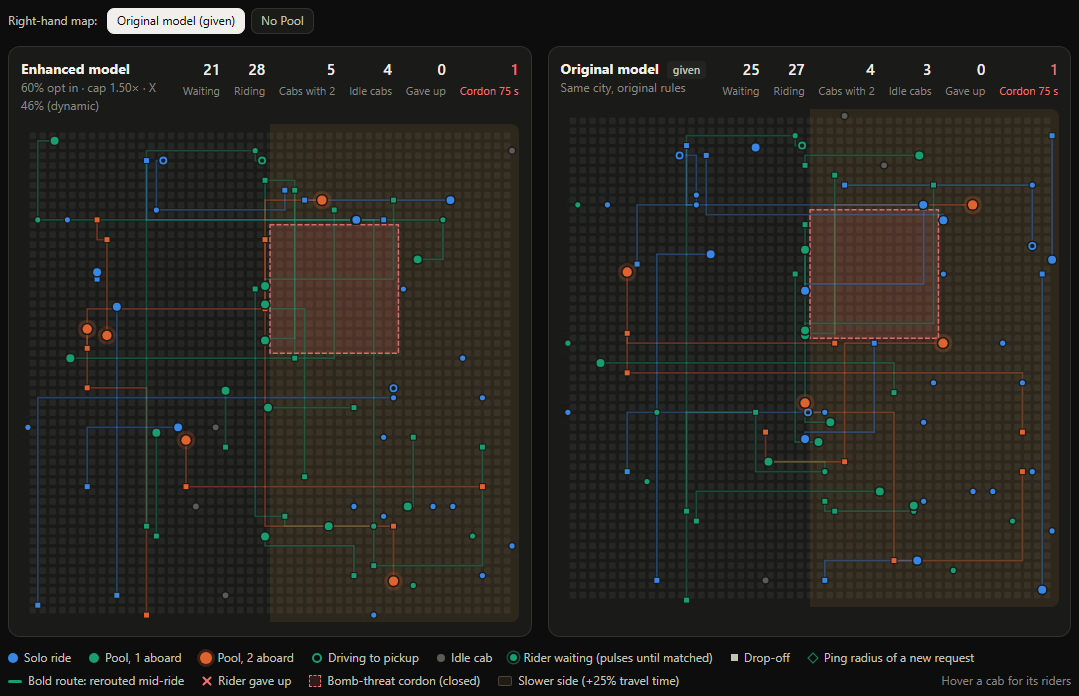
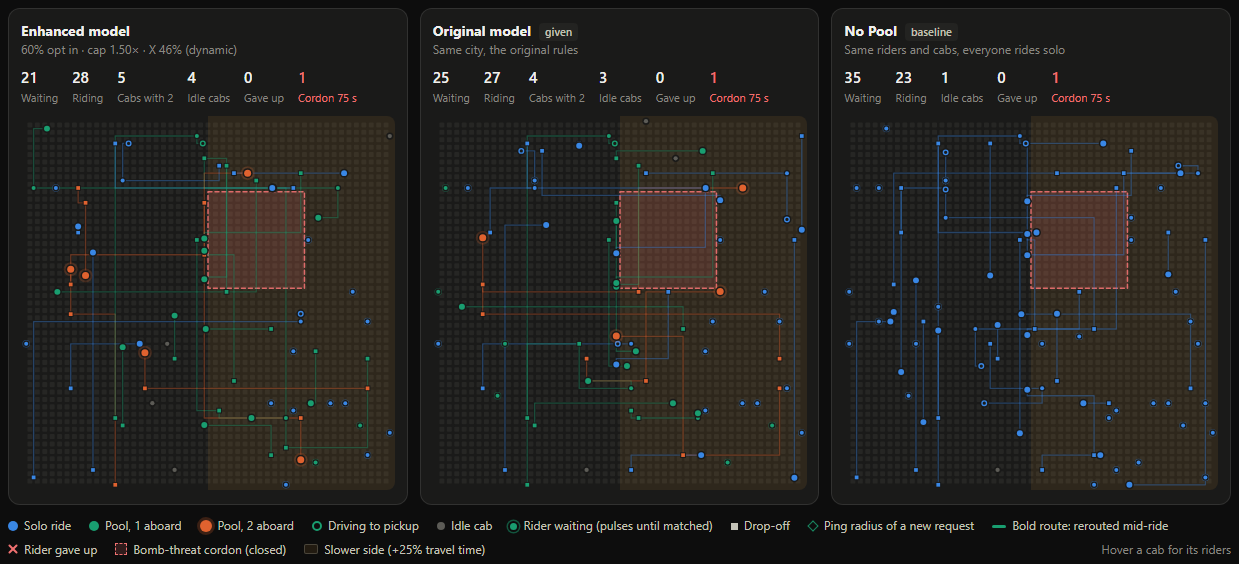
Three maps side by side (enhanced, original, No Pool); README in first person with screenshots

diff --git a/js/app.js b/js/app.js
@@ -75,8 +75,7 @@
     defaults: $('btn-defaults'), speed: $('speed'), status: $('status'), clock: $('clock'),
     clockTotal: $('clock-total'), progress: $('progress'),
     statsPool: $('stats-pool'), statsBase: $('stats-base'), subPool: $('sub-pool'),
-    titlePool: $('title-pool'), titleBase: $('title-base'), subBase: $('sub-base'),
-    compareSwitch: $('compare-switch'), legendSlow: $('legend-slow'),
+    statsOrig: $('stats-orig'), maps: $('maps'), legendSlow: $('legend-slow'),
     live: $('live'), liveEnh: $('live-enh'), report: $('report'), reportPanel: $('report-panel'), tooltip: $('tooltip'),
   };
 
@@ -91,12 +90,12 @@
     effSpeed: null,
     summary: null,
     hover: null, // { view, cab }
-    rightView: 'orig', // right map: 'orig' (original prototype) or 'base' (No Pool)
   };
 
   var views = {
-    pool: new window.MapView($('map-pool')),
-    base: new window.MapView($('map-base')),
+    pool: new window.MapView($('map-pool')),  // enhanced model
+    orig: new window.MapView($('map-orig')),  // original model, same city
+    base: new window.MapView($('map-base')),  // No Pool
   };
 
   // ------------------------------------------------------------ controls
@@ -230,39 +229,15 @@
     state.summary = null;
     state.hover = null;
     views.pool.setWorld(state.sim.pool);
-    views.base.setWorld(rightWorld());
-    syncCompareView();
+    views.orig.setWorld(state.orig ? state.orig.pool : null);
+    views.base.setWorld(state.sim.base);
+    els.maps.classList.toggle('no-orig', !state.orig);
+    layoutMaps();
     setStatus('ready');
     updateUi();
   }
 
-  // ------------------------------------------------------------ right-hand map
-
-  // The right map shows either the original prototype (same city, original
-  // rules) or the No Pool city. Original needs at least one enhancement on.
-  function showingOriginal() { return state.rightView === 'orig' && !!state.orig; }
-  function rightWorld() { return showingOriginal() ? state.orig.pool : state.sim.base; }
-
-  function syncCompareView() {
-    var orig = showingOriginal();
-    els.titlePool.textContent = orig ? 'Enhanced model' : 'With Pool';
-    els.titleBase.innerHTML = orig ? 'Original model <span class="tag">given</span>' : 'No Pool <span class="tag">baseline</span>';
-    els.subBase.textContent = orig ? 'Same city, original rules' : 'Same riders and cabs, everyone rides solo';
-    els.compareSwitch.querySelectorAll('[data-view]').forEach(function (b) {
-      var v = b.getAttribute('data-view');
-      b.setAttribute('aria-pressed', String(v === (orig ? 'orig' : 'base')));
-      if (v === 'orig') b.disabled = !state.orig;
-    });
-  }
-
-  els.compareSwitch.addEventListener('click', function (e) {
-    var b = e.target.closest('[data-view]');
-    if (!b || b.disabled) return;
-    state.rightView = b.getAttribute('data-view');
-    views.base.setWorld(rightWorld());
-    syncCompareView();
-    updateUi();
-  });
+  function eachView(fn) { Object.keys(views).forEach(function (k) { fn(views[k]); }); }
 
   function start() {
     if (state.status === 'finished') newRun();
@@ -327,8 +302,7 @@
     }
 
     var now = performance.now();
-    views.pool.draw(now);
-    views.base.draw(now);
+    eachView(function (v) { v.draw(now); });
     if (ts - state.lastUi > 120) {
       state.lastUi = ts;
       updateUi();
@@ -410,9 +384,10 @@
     els.subPool.textContent = cfg.poolOptIn + '% opt in · cap ' + cfg.maxDetour.toFixed(2) + '× · X ' + Math.round(sim.pool.X * 100) + '%'
       + (cfg.dynamicPremium ? ' (dynamic)' : '');
 
-    var lp = sim.pool.live(), lb = sim.base.live(), rw = rightWorld();
+    var lp = sim.pool.live(), lb = sim.base.live();
     els.statsPool.innerHTML = mapStats(lp, true) + threatStat(sim.pool);
-    els.statsBase.innerHTML = mapStats(rw.live(), rw.poolEnabled) + threatStat(rw);
+    els.statsOrig.innerHTML = state.orig ? mapStats(state.orig.pool.live(), true) + threatStat(state.orig.pool) : '';
+    els.statsBase.innerHTML = mapStats(lb, false) + threatStat(sim.base);
     els.legendSlow.textContent = cfg.rightSlow ? 'Slower side (+' + cfg.rightSlow + '% travel time)' : 'No slower side';
 
     var ps = poolRiderStats(sim.pool);
@@ -561,7 +536,7 @@
   function openReport() {
     var sim = state.sim;
     state.hover = null;
-    views.pool.hoverCab = views.base.hoverCab = null;
+    eachView(function (v) { v.hoverCab = null; });
     hideTip();
     state.summary = Metrics.summarize(sim);
     els.reportPanel.innerHTML = Report.render(state.summary);
@@ -760,10 +735,9 @@
   function layoutMaps() {
     var wraps = document.querySelectorAll('.canvas-wrap');
     var size = Infinity;
-    wraps.forEach(function (w) { size = Math.min(size, w.clientWidth); });
+    wraps.forEach(function (w) { if (w.clientWidth > 0) size = Math.min(size, w.clientWidth); }); // skip hidden maps
     if (!isFinite(size) || size <= 0) return;
-    views.pool.resize(size);
-    views.base.resize(size);
+    eachView(function (v) { v.resize(size); });
   }
 
   // ------------------------------------------------------------ wiring
@@ -788,7 +762,7 @@
   });
 
   var mq = window.matchMedia('(prefers-color-scheme: dark)');
-  var onTheme = function () { views.pool.setTheme(); views.base.setTheme(); };
+  var onTheme = function () { eachView(function (v) { v.setTheme(); }); };
   if (mq.addEventListener) mq.addEventListener('change', onTheme);
   else if (mq.addListener) mq.addListener(onTheme);
 
@@ -800,8 +774,7 @@
 
   buildControls();
   buildSpeed();
-  wireMap(views.pool);
-  wireMap(views.base);
+  eachView(wireMap);
   newRun();
   layoutMaps();
   requestAnimationFrame(frame);

diff --git a/styles.css b/styles.css
@@ -220,13 +220,15 @@ input:disabled { cursor: not-allowed; opacity: 0.5; }
 
 /* ------------------------------------------------------------------ maps */
 
-.maps { display: grid; grid-template-columns: 1fr 1fr; gap: 16px; }
+.maps { display: grid; grid-template-columns: repeat(3, minmax(0, 1fr)); gap: 12px; }
+.maps.no-orig { grid-template-columns: repeat(2, minmax(0, 1fr)); }
+.maps.no-orig #card-orig { display: none; }
 .map-card { margin: 0; padding: 12px 12px 14px; background: var(--panel); border: 1px solid var(--border); border-radius: 12px; min-width: 0; }
-.map-head { display: flex; justify-content: space-between; align-items: flex-start; gap: 12px; margin-bottom: 10px; }
+.map-head { display: flex; flex-direction: column; gap: 8px; margin-bottom: 10px; }
 .map-head h2 { font-size: 14px; font-weight: 650; display: flex; align-items: center; gap: 8px; }
 .map-head p { color: var(--muted); font-size: 12px; }
 .tag { font-size: 11px; font-weight: 550; padding: 1px 6px; border-radius: 4px; background: var(--panel-2); color: var(--ink-2); }
-.map-stats { display: flex; gap: 14px; text-align: right; }
+.map-stats { display: flex; flex-wrap: wrap; gap: 4px 14px; }
 .map-stats div { display: flex; flex-direction: column; }
 .map-stats b { font-size: 15px; font-weight: 600; font-variant-numeric: tabular-nums; }
 .map-stats span { color: var(--muted); font-size: 11px; white-space: nowrap; }
@@ -251,20 +253,15 @@ input:disabled { cursor: not-allowed; opacity: 0.5; }
 .sw.lost::before { transform: rotate(45deg); }
 .sw.lost::after { transform: rotate(-45deg); }
 .sw.slow { width: 14px; height: 10px; border-radius: 2px; background: var(--slow); border: 1px solid color-mix(in srgb, var(--ink-2) 25%, transparent); }
-.compare-switch { display: flex; align-items: center; gap: 6px; margin: 0 0 12px; font-size: 12px; color: var(--ink-2); flex-wrap: wrap; }
-.compare-switch span { margin-right: 4px; }
-.compare-switch .seg { font: inherit; font-size: 12px; padding: 3px 9px; border-radius: 7px; border: 1px solid var(--border); background: var(--panel); color: var(--ink-2); cursor: pointer; }
-.compare-switch .seg[aria-pressed="true"] { background: var(--ink); color: var(--bg); border-color: var(--ink); }
-.compare-switch .seg:disabled { opacity: 0.45; cursor: default; }
 .sw.cordon { width: 12px; height: 12px; border: 1.5px dashed var(--bad); background: color-mix(in srgb, var(--bad) 16%, transparent); }
 .map-stats .threat-on b, .map-stats .threat-on span { color: var(--bad); }
 .sw.reroute { width: 14px; height: 3px; border-radius: 2px; background: var(--pool1); }
 
 /* ------------------------------------------------------------------ live tiles */
 
-.live { display: grid; grid-template-columns: repeat(6, minmax(0, 1fr)); gap: 12px; margin-top: 16px; }
+.live { display: grid; grid-template-columns: repeat(6, minmax(0, 1fr)); gap: 12px; margin-top: 6px; }
 .live-enh { grid-template-columns: repeat(4, minmax(0, 1fr)); margin-top: 6px; }
-.live-cap { margin: 18px 0 0; font-size: 12px; font-weight: 600; color: var(--ink-2); }
+.live-cap { margin: 16px 0 0; font-size: 12px; font-weight: 600; color: var(--ink-2); }
 .tile-wide { grid-column: 1 / -1; }
 .onoff { font-size: 10px; font-weight: 650; padding: 1px 6px; border-radius: 999px; margin-left: 4px; vertical-align: 1px; text-transform: uppercase; letter-spacing: 0.04em; }
 .onoff.on { background: color-mix(in srgb, var(--good) 18%, transparent); color: var(--good); }

diff --git a/index.html b/index.html
@@ -51,27 +51,32 @@
     </aside>
 
     <main>
-      <div class="compare-switch" role="group" aria-label="Right-hand map" id="compare-switch">
-        <span>Right-hand map:</span>
-        <button class="seg" type="button" data-view="orig" aria-pressed="true">Original model (given)</button>
-        <button class="seg" type="button" data-view="base" aria-pressed="false">No Pool</button>
-      </div>
-      <section class="maps">
+      <section class="maps" id="maps">
         <figure class="map-card">
           <figcaption class="map-head">
             <div>
-              <h2 id="title-pool">With Pool</h2>
+              <h2>Enhanced model</h2>
               <p id="sub-pool">Opt-in riders can share a cab</p>
             </div>
             <div class="map-stats" id="stats-pool"></div>
           </figcaption>
-          <div class="canvas-wrap"><canvas id="map-pool" aria-label="Map of the city with pooling"></canvas></div>
+          <div class="canvas-wrap"><canvas id="map-pool" aria-label="Map of the city under the enhanced model"></canvas></div>
+        </figure>
+        <figure class="map-card" id="card-orig">
+          <figcaption class="map-head">
+            <div>
+              <h2>Original model <span class="tag">given</span></h2>
+              <p>Same city, the original rules</p>
+            </div>
+            <div class="map-stats" id="stats-orig"></div>
+          </figcaption>
+          <div class="canvas-wrap"><canvas id="map-orig" aria-label="Map of the same city under the original model"></canvas></div>
         </figure>
         <figure class="map-card">
           <figcaption class="map-head">
             <div>
-              <h2 id="title-base">No Pool <span class="tag">baseline</span></h2>
-              <p id="sub-base">Same riders and cabs, everyone rides solo</p>
+              <h2>No Pool <span class="tag">baseline</span></h2>
+              <p>Same riders and cabs, everyone rides solo</p>
             </div>
             <div class="map-stats" id="stats-base"></div>
           </figcaption>
@@ -95,8 +100,9 @@
         <li class="legend-hint">Hover a cab for its riders</li>
       </ul>
 
+      <p class="live-cap">Enhanced model vs No Pool</p>
       <section class="live" id="live" aria-label="Live comparison"></section>
-      <p class="live-cap">Enhanced vs original rules: the same city, running alongside under the original prototype's rules</p>
+      <p class="live-cap">Enhanced model vs original model</p>
       <section class="live live-enh" id="live-enh" aria-label="Enhanced vs original rules, live"></section>
     </main>
   </div>
